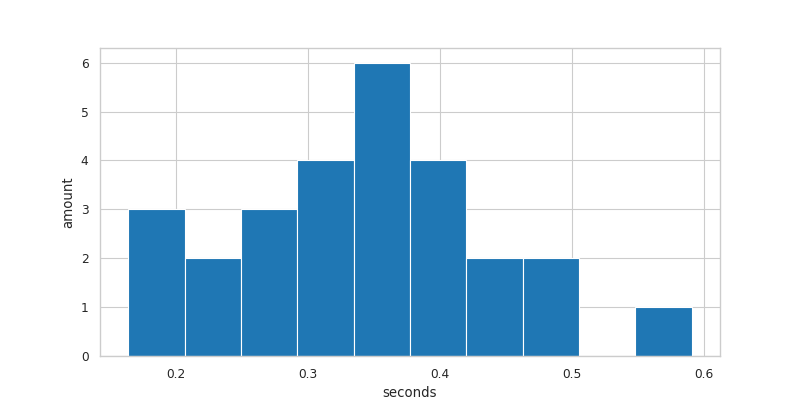
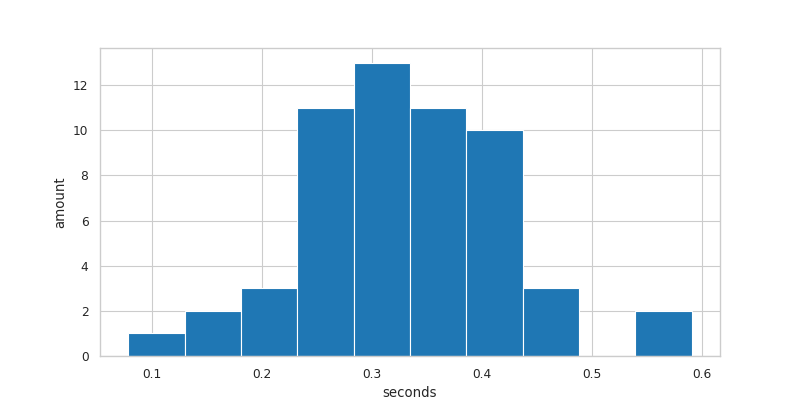
Evaluation 2

diff --git a/analyze.py b/analyze.py
@@ -45,7 +45,7 @@ def process_reference(timed_events,
     times, events = list(zip(*timed_events))
 
     start = event_index(events, key_start)
-    end = event_index(events, key_end)
+    end = event_index(events, key_end, start=start)
     # print(start, '<', end)
     assert start < end, "Start event after end event"
 
@@ -321,9 +321,13 @@ def main():
     sanity_interval = 600
 
 
-    def is_start_event(evnt):
-        """ This is the start event """
-        return evnt['msg'] == 'REFERENCE SELECTED' or evnt['msg'] == 'SEARCH ISSUED'
+    # def is_start_event(evnt):
+    #     """ This is the start event """
+    #     return evnt['msg'] == 'REFERENCE SELECTED' or evnt['msg'] == 'SEARCH ISSUED'
+
+
+    # Clean logs do use this as start event
+    is_start_event = 'REFERENCE SELECTED'
 
 
     is_end_event = 'COMMIT PRESSED'

diff --git a/results.md b/results.md
@@ -1,21 +1,23 @@
 [warning] End event before start event, discarding.
+[warning] Exceeds sanity interval, discarding: 2 days, 22:30:48.930000 > 600
+[warning] Exceeds sanity interval, discarding: 0:12:52.747000 > 600
 # Results
 
 Sanity interval 600
-Inspected groups =  61
-Valid groups =  27
+Inspected groups =  180
+Valid groups =  56
 Link resolved within sanity interval and contain both internal and external suggestions
 
 ## Span Criterion:  linking time
 
 
 ```
-N = 27
-[Low, High] = [3.777, 95.363]
-Quantile@25 = 4.589
-Quantile@50 = 8.129
-Quantile@75 = 19.212
-Mean =  16.112481481481478
+N = 56
+[Low, High] = [3.777, 535.333]
+Quantile@25 = 7.79
+Quantile@50 = 12.55
+Quantile@75 = 21.219
+Mean =  29.43166071428572
 ```
 
 
@@ -23,12 +25,12 @@ Mean =  16.112481481481478
 
 
 ```
-N = 27
-[Low, High] = [0.144, 0.613]
-Quantile@25 = 0.28
-Quantile@50 = 0.358
-Quantile@75 = 0.395
-Mean =  0.34511111111111104
+N = 56
+[Low, High] = [0.144, 34.777]
+Quantile@25 = 0.285
+Quantile@50 = 0.34
+Quantile@75 = 0.393
+Mean =  0.953482142857143
 ```
 
 
@@ -36,12 +38,12 @@ Mean =  0.34511111111111104
 
 
 ```
-N = 27
-[Low, High] = [0.164, 0.591]
-Quantile@25 = 0.266
-Quantile@50 = 0.341
-Quantile@75 = 0.4
-Mean =  0.3397037037037037
+N = 56
+[Low, High] = [0.078, 0.591]
+Quantile@25 = 0.274
+Quantile@50 = 0.329
+Quantile@75 = 0.387
+Mean =  0.332125
 ```
 
 
@@ -49,11 +51,11 @@ Mean =  0.3397037037037037
 
 
 ```
-N = 27
-[Low, High] = [0, 1]
+N = 56
+[Low, High] = [0, 4]
 Quantile@25 = 0
 Quantile@50 = 0
 Quantile@75 = 0
-Mean =  0.07407407407407407
+Mean =  0.14285714285714285
 ```
 
